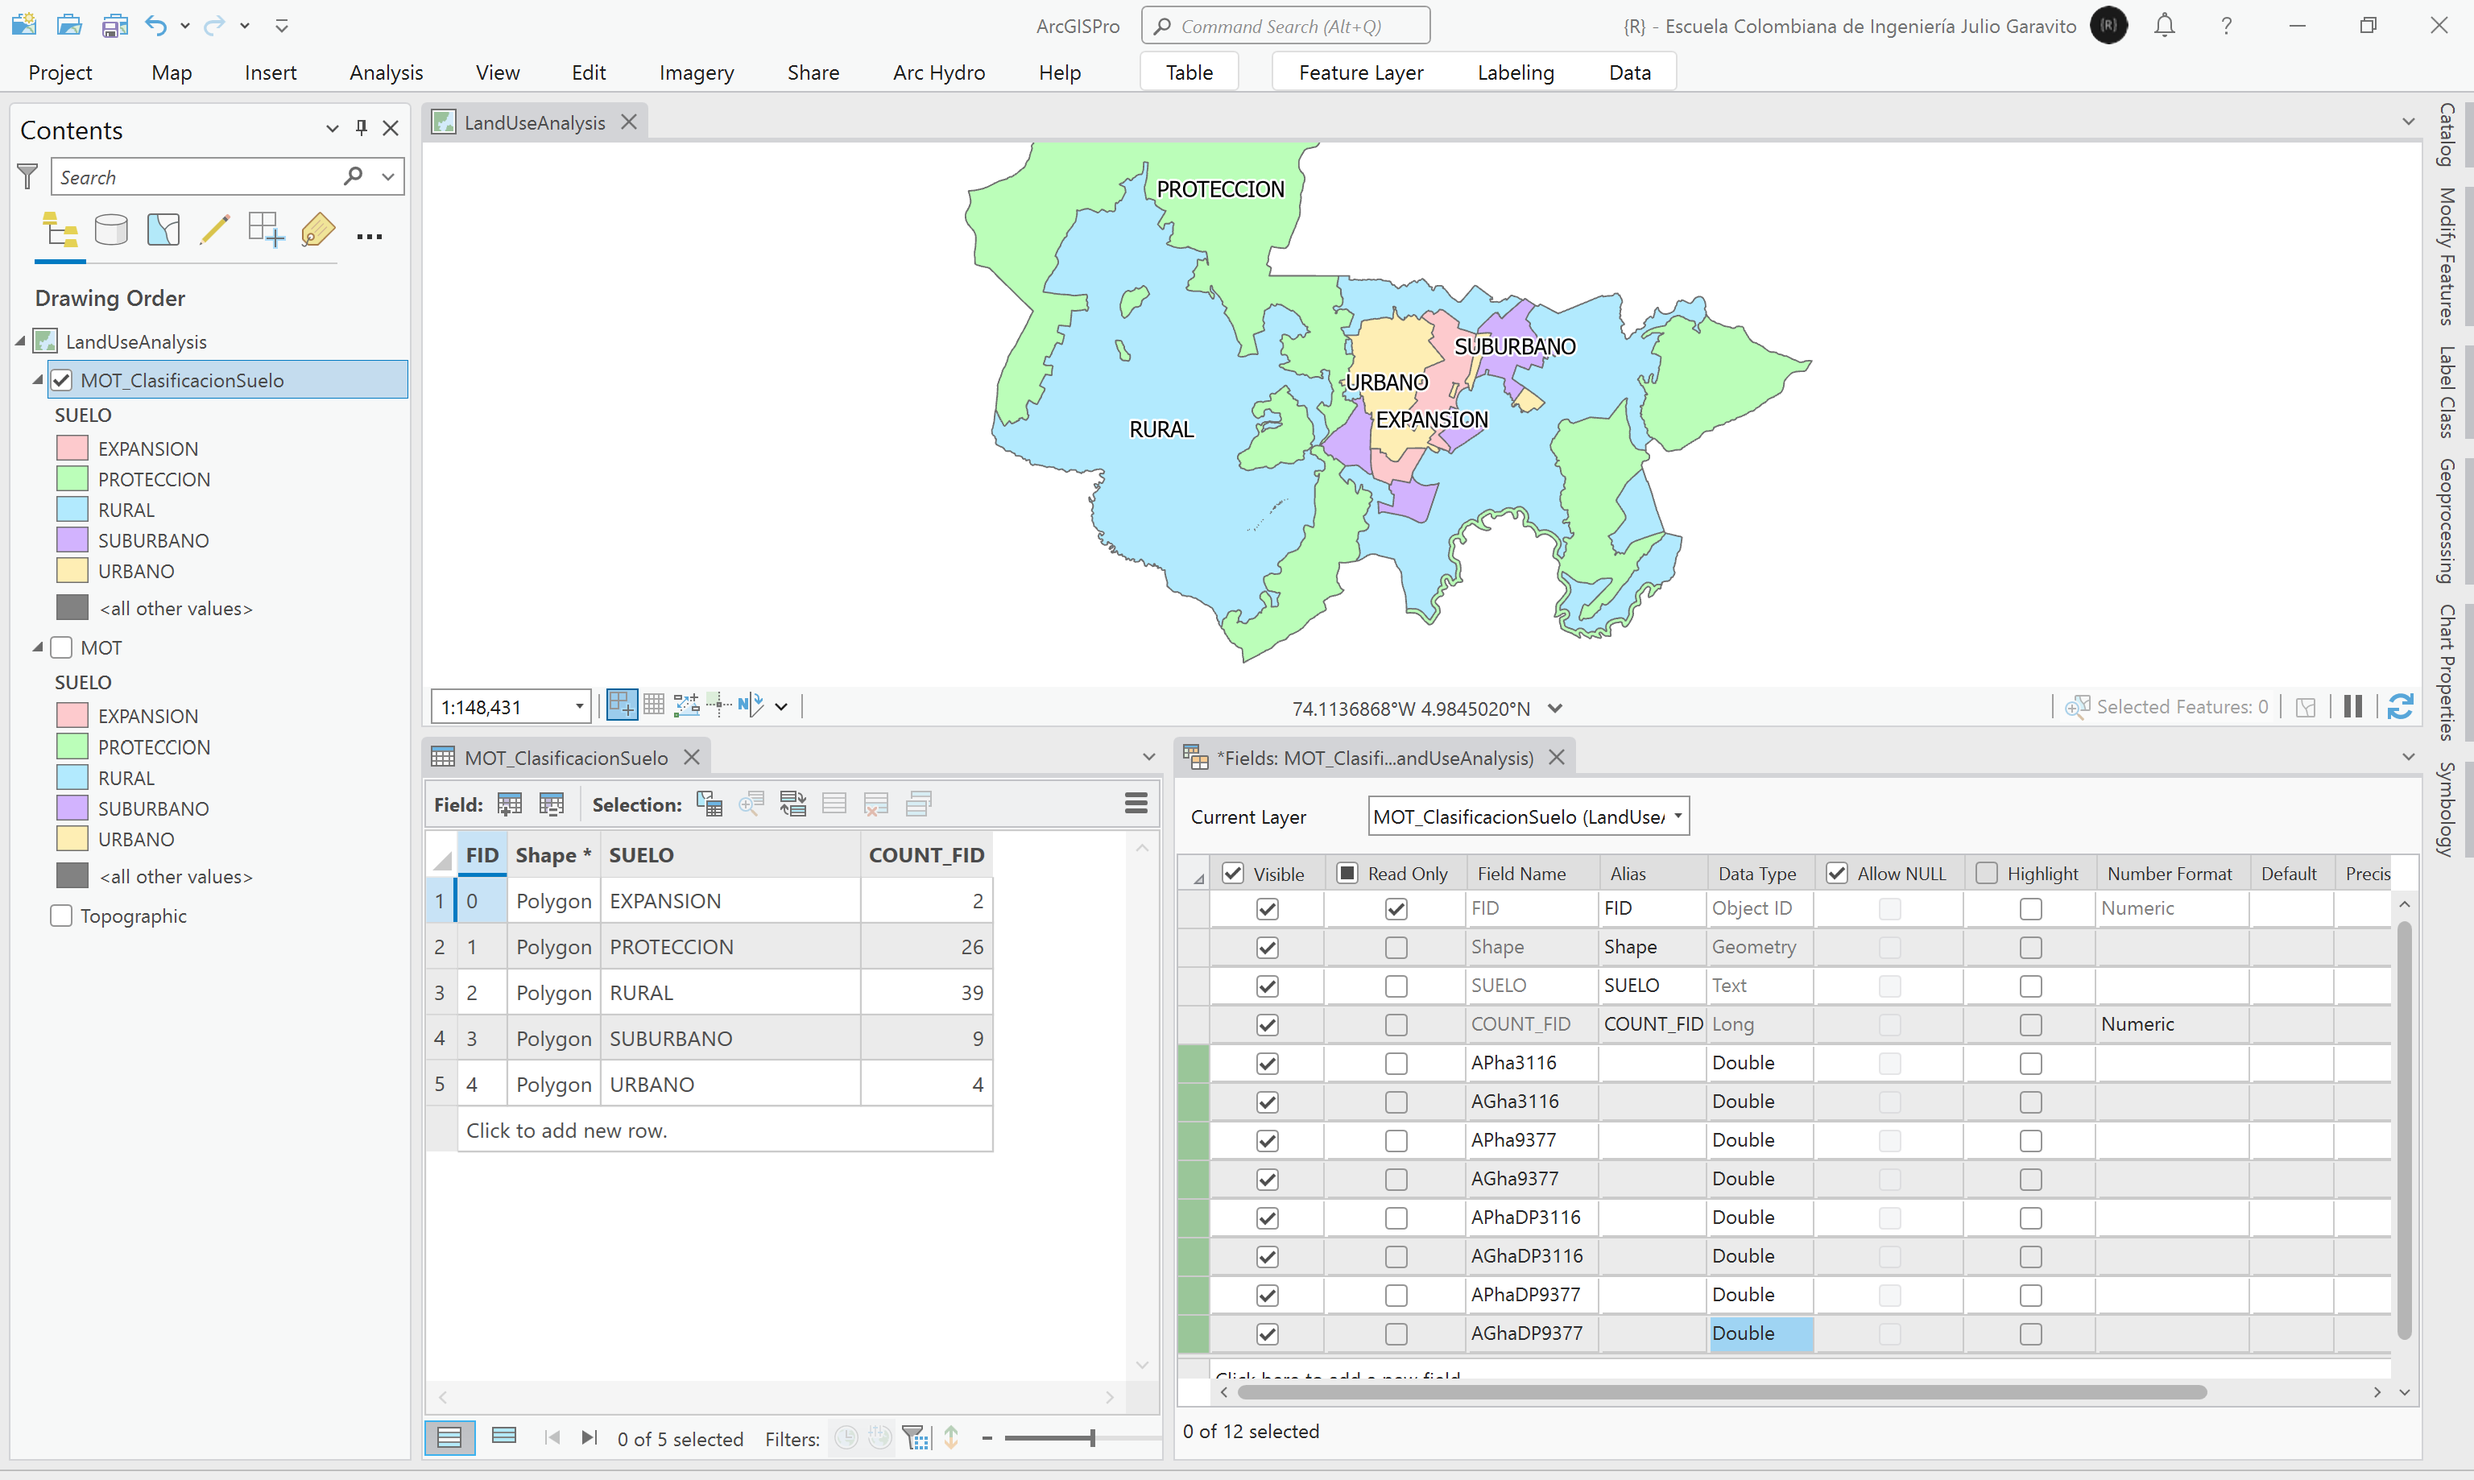
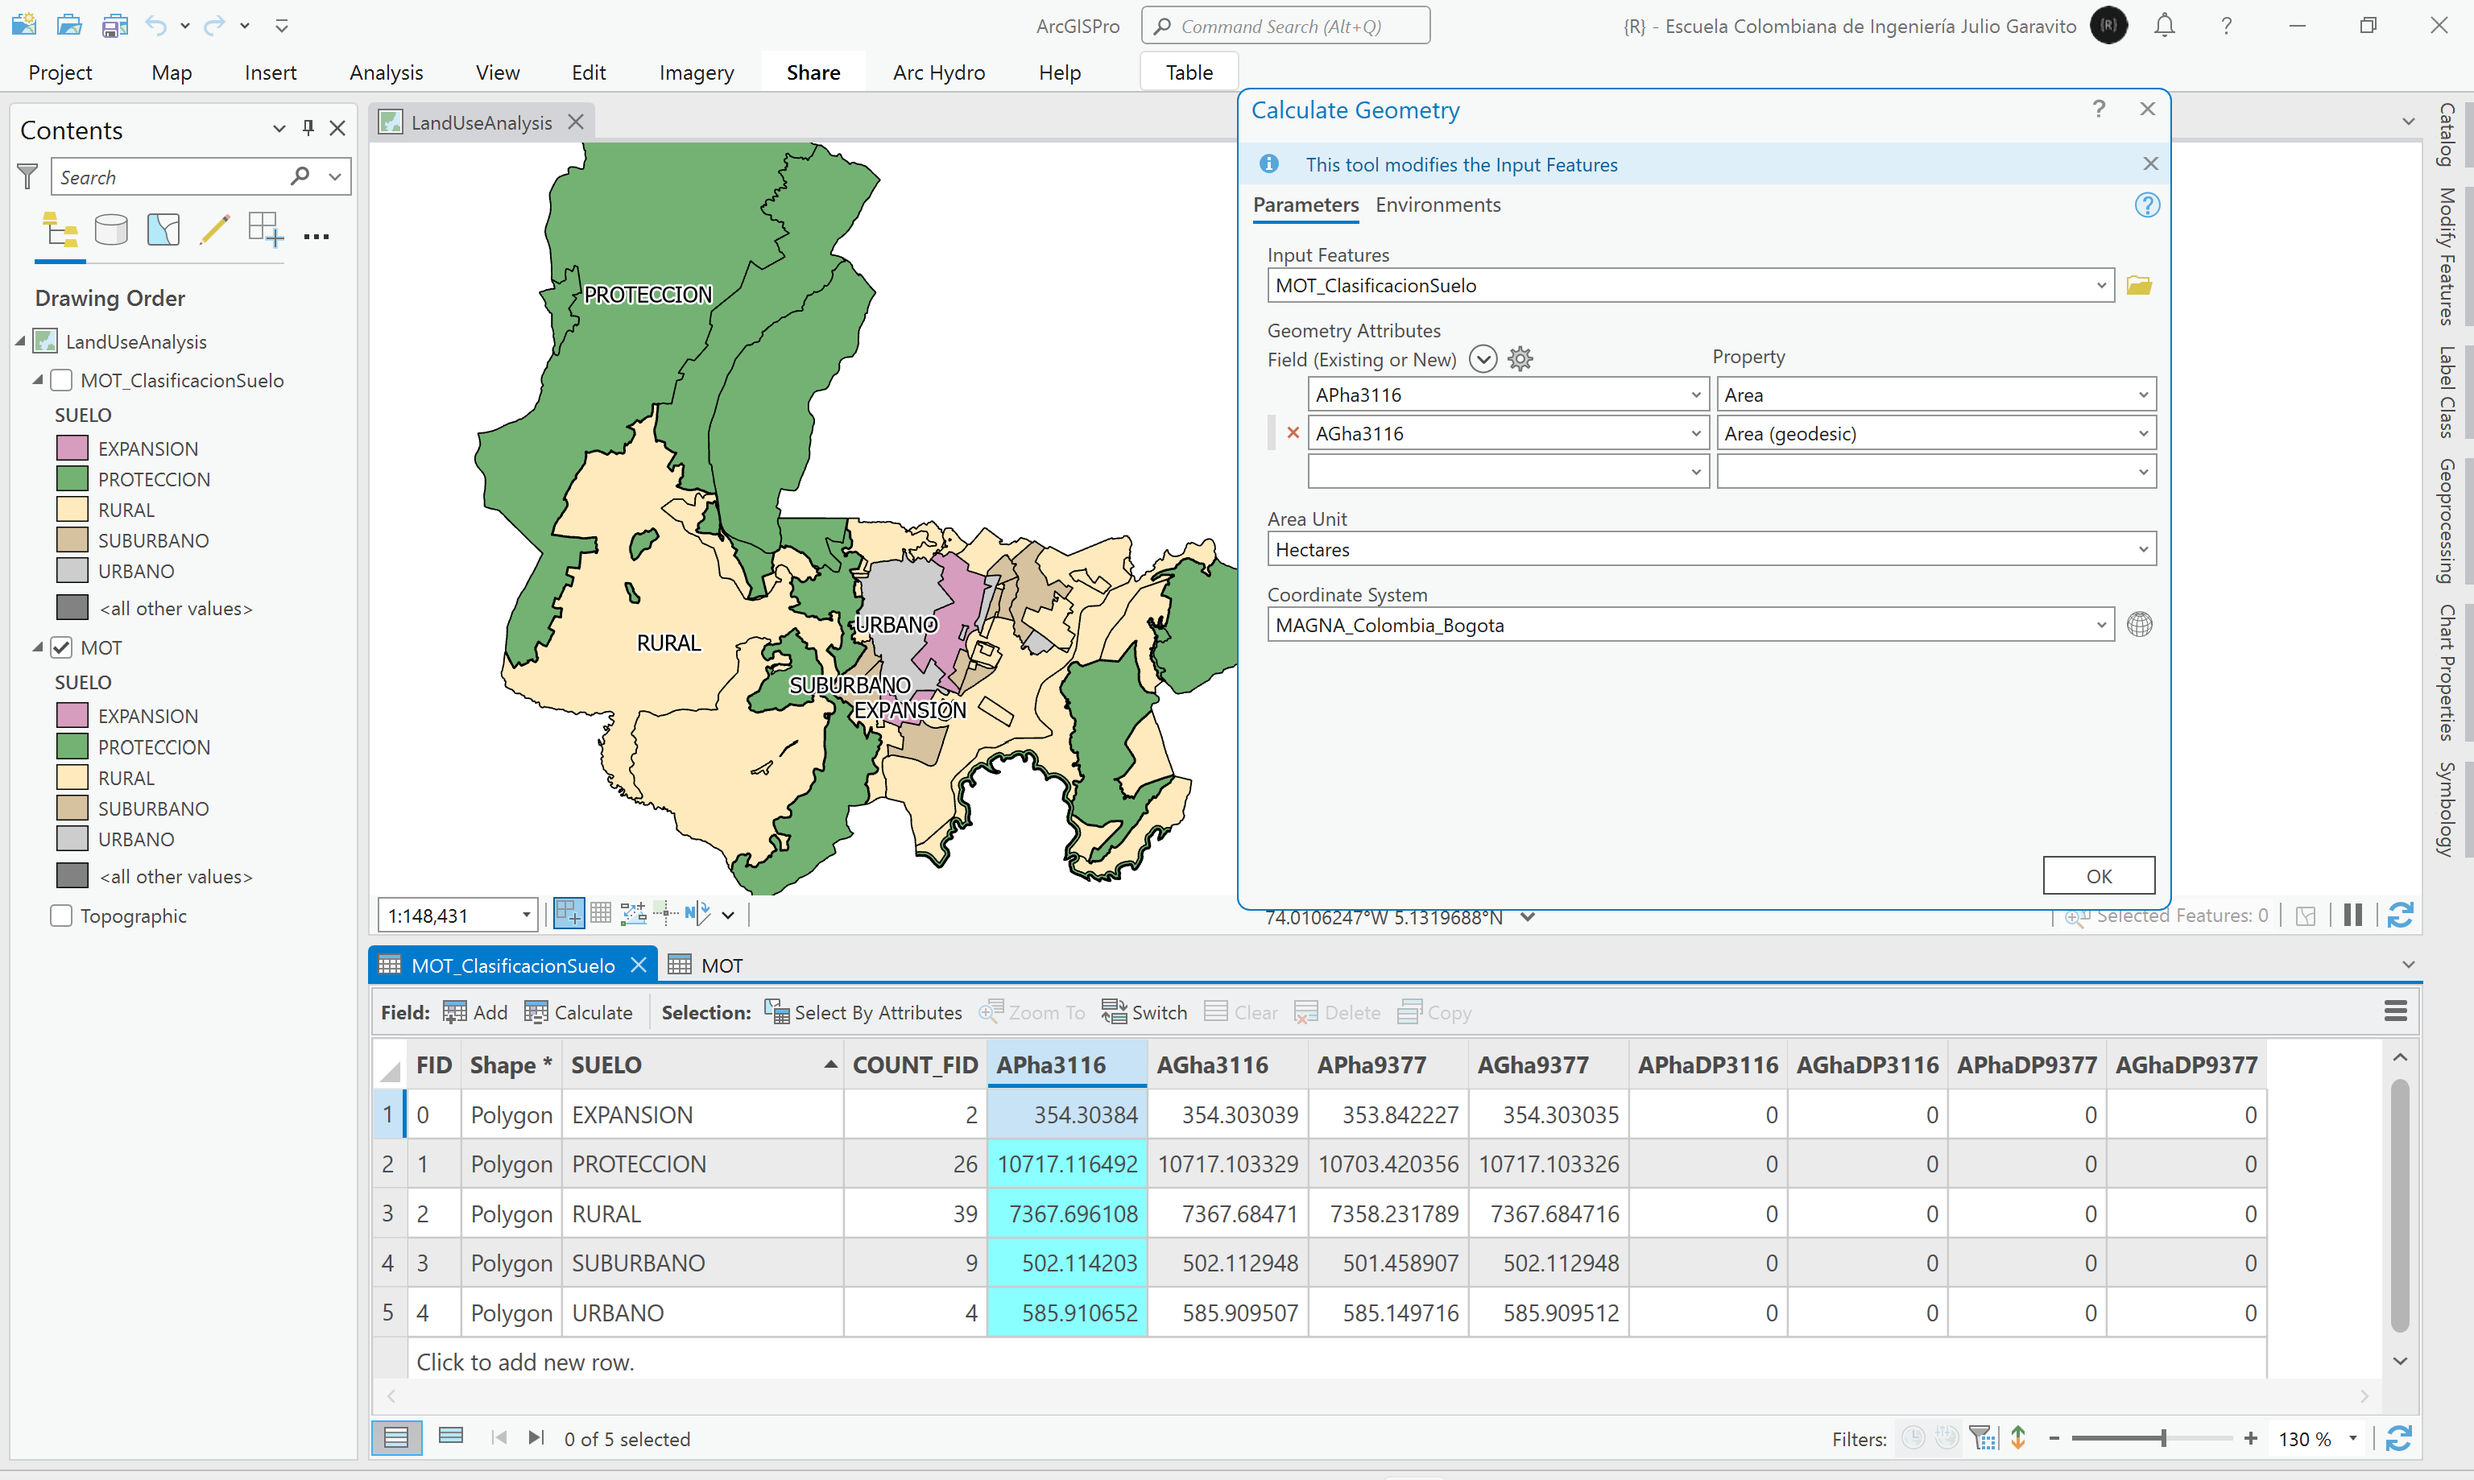
General update.

diff --git a/activity/LandUseAnalysis/Readme.md b/activity/LandUseAnalysis/Readme.md
@@ -58,14 +58,8 @@ Agregue al mapa la capa del Modelo de Ocupación Territorial - MOT disponible en
 
 <div align="center"><img src="graph/ArcGISPro_AddField1.png" alt="R.SIGE" width="100%" border="0" /></div>
 
-4. Desde la tabla de atributos, calcule las propiedades geométricas de los campos `APha3116`, `AGha3116`, `APha9377` y `AGha9377`. Como observa, los valores de las áreas planares y geográficas son diferentes en un mismo sistema y también entre los dos CRS calculados.
-
-<div align="center"><img src="graph/ArcGISPro_MOT_ClasificacionSuelo_CalculateGeometry1.png" alt="R.SIGE" width="100%" border="0" /></div>
-<div align="center"><img src="graph/ArcGISPro_MOT_ClasificacionSuelo_CalculateGeometry2.png" alt="R.SIGE" width="100%" border="0" /></div>
-
-Ajuste los colores del mapa 
-
 <div align="center">
+Ajuste los colores del mapa utilizando los siguientes valores hexadecimales.<br>
 
 | Categoría        | HEX color |
 |------------------|-----------|
@@ -76,6 +70,13 @@ Ajuste los colores del mapa
 | Rural            | #FFEABE   |
 
 </div>
+
+4. Desde la tabla de atributos, calcule las propiedades geométricas de los campos `APha3116`, `AGha3116`, `APha9377` y `AGha9377`. Como observa, los valores de las áreas planares y geográficas son diferentes en un mismo sistema y también entre los dos CRS calculados.
+
+<div align="center"><img src="graph/ArcGISPro_MOT_ClasificacionSuelo_CalculateGeometry1.png" alt="R.SIGE" width="100%" border="0" /></div>
+<div align="center"><img src="graph/ArcGISPro_MOT_ClasificacionSuelo_CalculateGeometry2.png" alt="R.SIGE" width="100%" border="0" /></div>
+
+
 
 ## 1.1. Análisis de diferencias
 
